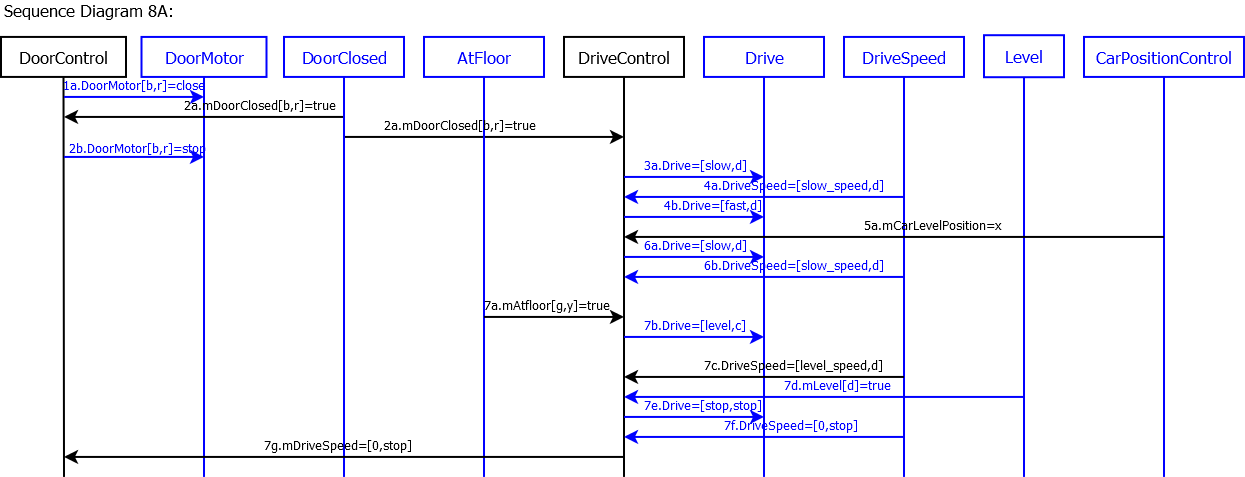
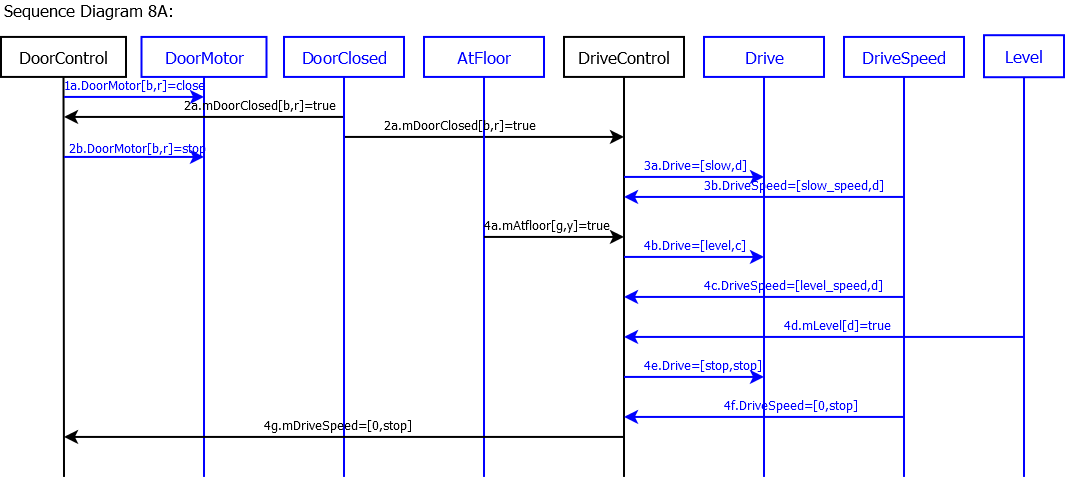
Deleted fast speedin 8A - Yue

Changed region(s): [[0.0, 0.0, 1.0, 1.0]]

diff --git a/portfolio_template/scen_sd/scen_sd.html b/portfolio_template/scen_sd/scen_sd.html
@@ -522,9 +522,6 @@
         <li>Door[<b>b,r</b>] finishes closing.<br>
         </li>
         <li>Car moves in direction <b>d</b> to floor <b>g</b>.</li>
-        <li>Car speeds up to fast speed.</li>
-        <li>Car arrives at commit point for floor <b>g</b>.</li>
-        <li>Car slows down.</li>
         <li>Car arrives at floor <b>g</b>.</li>
       </ol>
       <h3> Post-Conditions: </h3>
@@ -534,8 +531,7 @@
         <li>Car is at floor <b>g</b>.</li>
       </ul>
       <h3> Sequence Diagram: </h3>
-      <a href="sd8a.png"><img alt="8a" src="sd8a.png" border="0"
-          height="477" width="1245"></a><br>
+      <a href="sd8a.png"><img alt="8a" src="sd8a.png" border="0"></a><br>
       <h2><br>
       </h2>
       <div align="center">

diff --git a/portfolio_template/traceability/req_const_traceability.html b/portfolio_template/traceability/req_const_traceability.html
@@ -62,7 +62,7 @@ open<br>
       </td>
       <td style="vertical-align: top;">5.4 Identical commands<br>
       </td>
-      <td>5.5 Overweight -&gt; doors open<br>
+      <td style="text-align: left">5.5 Overweight -&gt; doors open<br>
       </td>
     </tr>
     <tr>
@@ -113,7 +113,7 @@ countdown<br>
     <tr>
       <td>5.7.1 door open --&gt; stop door<br>
       </td>
-      <td style="vertical-align: top;"><br>
+      <td style="vertical-align: top;">~<br>
       </td>
       <td style="vertical-align: top;"><br>
       </td>
